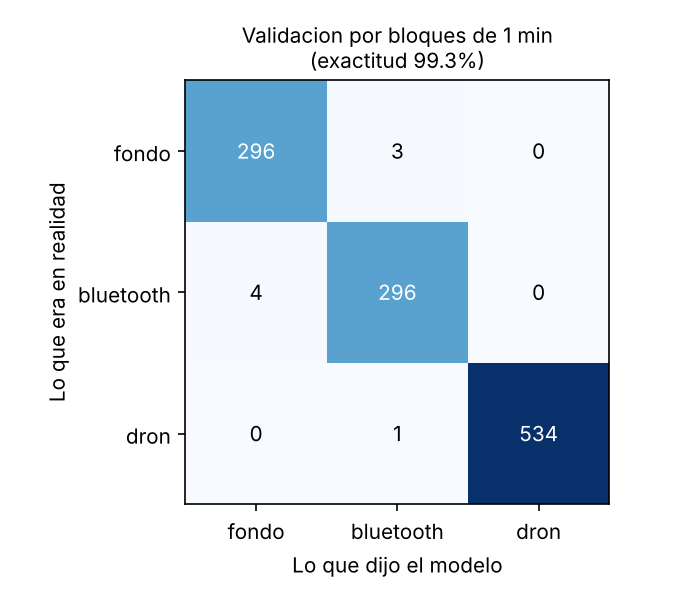
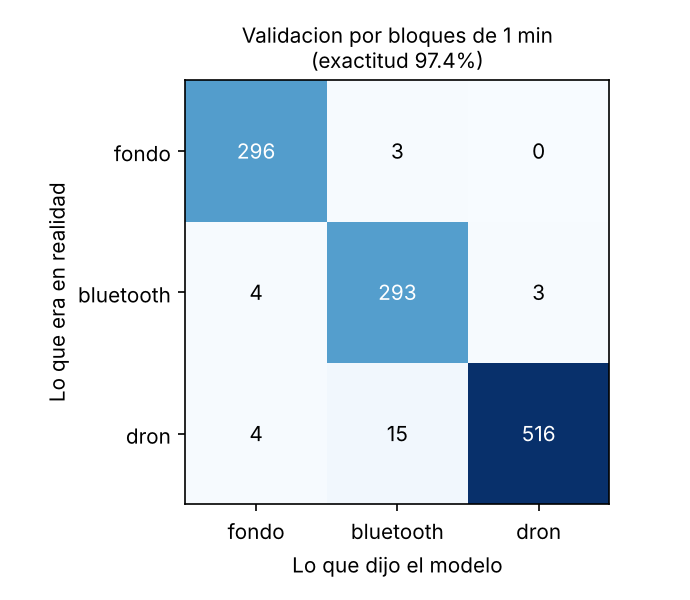
Modelo solo con el espectro: sin falsas alarmas de noche
Con los rasgos del trafico WiFi el modelo aprendio 'poco trafico = dron' y de noche alertaba.
Sin ellos: 97,4 % por bloques de 1 min, 0 falsas alarmas con la regla de 2 ventanas y 0 % con
trafico de noche simulado. El firmware no cambia: elige los rasgos por nombre.

diff --git a/Lab_ESP32/firmware/nodo_detector/modelo_detector.h b/Lab_ESP32/firmware/nodo_detector/modelo_detector.h
@@ -1,58 +1,49 @@
 // Modelo del detector de drones (regresion logistica, 3 clases).
-// Generado por proyecto-detector-drones/ml/entrenar.py el 2026-11-10. No editar a mano.
-// Exactitud: 99.3% (bloques de 1 min) y 100.0% (ultimo 30 % de cada grabacion).
+// Generado por proyecto-detector-drones/ml/entrenar.py el 2026-11-12. No editar a mano.
+// Exactitud: 97.4% (bloques de 1 min) y 99.1% (ultimo 30 % de cada grabacion).
 //
 // Uso: llena x[] con los rasgos de una ventana de 2 s EN ESTE ORDEN y llama
 //      int clase = detectorClasificar(x, prob);   // 0=fondo 1=bluetooth 2=dron
 #pragma once
 #include <math.h>
 
-#define DETECTOR_N_RASGOS 28
+#define DETECTOR_N_RASGOS 19
 #define DETECTOR_N_CLASES 3
 
 static const char* const DETECTOR_CLASES[DETECTOR_N_CLASES] = {"fondo", "bluetooth", "dron"};
 
 // Orden de los rasgos:
-//    0 tramas
-//    1 aparatos
-//    2 mgmt
-//    3 datos
-//    4 tam_prom
-//    5 rssi_prom
-//    6 rssi_max
-//    7 tramas_debiles
-//    8 aparatos_fuertes
-//    9 banda_2400
-//   10 banda_2406
-//   11 banda_2412
-//   12 banda_2418
-//   13 banda_2424
-//   14 banda_2430
-//   15 banda_2436
-//   16 banda_2442
-//   17 banda_2448
-//   18 banda_2454
-//   19 banda_2460
-//   20 banda_2466
-//   21 banda_2472
-//   22 banda_2478
-//   23 esp_media
-//   24 esp_banda_dron
-//   25 esp_max_banda_dron
-//   26 esp_canales_activos
-//   27 esp_variacion
+//    0 banda_2400
+//    1 banda_2406
+//    2 banda_2412
+//    3 banda_2418
+//    4 banda_2424
+//    5 banda_2430
+//    6 banda_2436
+//    7 banda_2442
+//    8 banda_2448
+//    9 banda_2454
+//   10 banda_2460
+//   11 banda_2466
+//   12 banda_2472
+//   13 banda_2478
+//   14 esp_media
+//   15 esp_banda_dron
+//   16 esp_max_banda_dron
+//   17 esp_canales_activos
+//   18 esp_variacion
 static const char* const DETECTOR_RASGOS[DETECTOR_N_RASGOS] = {
-  "tramas", "aparatos", "mgmt", "datos", "tam_prom", "rssi_prom", "rssi_max", "tramas_debiles", "aparatos_fuertes", "banda_2400", "banda_2406", "banda_2412", "banda_2418", "banda_2424", "banda_2430", "banda_2436", "banda_2442", "banda_2448", "banda_2454", "banda_2460", "banda_2466", "banda_2472", "banda_2478", "esp_media", "esp_banda_dron", "esp_max_banda_dron", "esp_canales_activos", "esp_variacion"
+  "banda_2400", "banda_2406", "banda_2412", "banda_2418", "banda_2424", "banda_2430", "banda_2436", "banda_2442", "banda_2448", "banda_2454", "banda_2460", "banda_2466", "banda_2472", "banda_2478", "esp_media", "esp_banda_dron", "esp_max_banda_dron", "esp_canales_activos", "esp_variacion"
 };
 
-static const float DETECTOR_MEDIA[DETECTOR_N_RASGOS] = {65.55291f, 34.51235f, 56.23986f, 9.313051f, 296.5265f, -67.5776f, -47.86596f, 23.39859f, 4.449735f, 0.1979899f, 0.1928727f, 0.8205556f, 1.012924f, 0.6436255f, 0.7967448f, 0.8469546f, 1.047824f, 0.7648287f, 0.5646022f, 0.552721f, 0.07989436f, 0.1091698f, 0.1110898f, 0.3686591f, 0.7937235f, 3.651675f, 0.1781504f, 0.07304753f};
-static const float DETECTOR_ESCALA[DETECTOR_N_RASGOS] = {29.88503f, 13.584f, 26.66317f, 8.638531f, 34.16586f, 3.721413f, 3.787758f, 15.39457f, 1.342112f, 0.1480145f, 0.2175033f, 0.928384f, 0.7940429f, 0.594416f, 1.018404f, 1.05425f, 1.183074f, 1.143063f, 1.025174f, 0.9963565f, 0.1994755f, 0.1413865f, 0.09339758f, 0.3109011f, 0.8684976f, 1.616551f, 0.1212147f, 0.0437652f};
+static const float DETECTOR_MEDIA[DETECTOR_N_RASGOS] = {0.1979899f, 0.1928727f, 0.8205556f, 1.012924f, 0.6436255f, 0.7967448f, 0.8469546f, 1.047824f, 0.7648287f, 0.5646022f, 0.552721f, 0.07989436f, 0.1091698f, 0.1110898f, 0.3686591f, 0.7937235f, 3.651675f, 0.1781504f, 0.07304753f};
+static const float DETECTOR_ESCALA[DETECTOR_N_RASGOS] = {0.1480145f, 0.2175033f, 0.928384f, 0.7940429f, 0.594416f, 1.018404f, 1.05425f, 1.183074f, 1.143063f, 1.025174f, 0.9963565f, 0.1994755f, 0.1413865f, 0.09339758f, 0.3109011f, 0.8684976f, 1.616551f, 0.1212147f, 0.0437652f};
 static const float DETECTOR_PESOS[DETECTOR_N_CLASES][DETECTOR_N_RASGOS] = {
-  {0.8742491f, 0.5118238f, 1.000768f, -0.06444263f, 0.3840119f, -0.7526828f, 0.2613238f, 0.7821502f, 0.1202065f, -1.51988f, -1.872247f, 0.1288443f, 0.1088237f, 0.07151049f, -0.7619423f, -0.4073706f, -0.1993994f, 0.1625881f, 0.02624369f, 0.1908636f, -0.9370545f, -1.326479f, -0.5749433f, -0.2833349f, -0.2300079f, -0.5795302f, -0.5051515f, -0.06702661f},  // fondo
-  {0.1112353f, 0.7877509f, 0.1104013f, 0.04406088f, -0.01260994f, -0.1686209f, -0.08153487f, -0.04781867f, -0.3000188f, 0.9242091f, 1.036108f, -0.1748325f, 0.1118467f, -0.08120711f, 0.1253554f, -0.3985436f, -0.3311005f, -0.4290557f, -0.327154f, -0.3708066f, 0.6238447f, 1.349421f, 0.7469365f, -0.1921041f, -0.2916233f, 0.2312508f, -0.3632749f, 0.2813756f},  // bluetooth
-  {-0.9854844f, -1.299575f, -1.111169f, 0.02038175f, -0.3714019f, 0.9213037f, -0.179789f, -0.7343315f, 0.1798123f, 0.5956713f, 0.8361389f, 0.0459882f, -0.2206704f, 0.009696614f, 0.6365868f, 0.8059142f, 0.5304999f, 0.2664676f, 0.3009104f, 0.1799431f, 0.3132098f, -0.02294175f, -0.1719932f, 0.475439f, 0.5216311f, 0.3482794f, 0.8684264f, -0.214349f},  // dron
+  {-1.583395f, -2.076554f, 0.127675f, 0.07538404f, 0.3921808f, -1.186709f, -0.9570474f, -0.1253967f, -0.2839796f, -0.4629335f, 0.1461288f, -1.129593f, -1.249278f, -0.5860126f, -0.5744656f, -0.5319683f, -0.935729f, -0.818536f, 0.2992547f},  // fondo
+  {0.9064051f, 1.021587f, -0.1061034f, 0.04852619f, -0.1289521f, 0.4903554f, -1.059524f, -0.07090267f, -0.4454478f, -1.394121f, -0.6848593f, 0.3850261f, 1.338807f, 0.9153497f, -0.4215276f, -0.4518396f, 0.1663069f, -0.7152795f, 0.4405562f},  // bluetooth
+  {0.67699f, 1.054967f, -0.02157159f, -0.1239102f, -0.2632287f, 0.6963536f, 2.016571f, 0.1962994f, 0.7294274f, 1.857054f, 0.5387305f, 0.7445673f, -0.08952905f, -0.3293371f, 0.9959933f, 0.9838079f, 0.7694222f, 1.533815f, -0.7398109f},  // dron
 };
-static const float DETECTOR_SESGO[DETECTOR_N_CLASES] = {-4.553478f, 0.7258105f, 3.827668f};
+static const float DETECTOR_SESGO[DETECTOR_N_CLASES] = {-4.582506f, -0.9616126f, 5.544118f};
 
 // Devuelve la clase mas probable; si prob no es NULL, deja ahi las 3 probabilidades.
 static inline int detectorClasificar(const float* x, float* prob) {

diff --git a/proyecto-detector-drones/modelos/modelo_detector.h b/proyecto-detector-drones/modelos/modelo_detector.h
@@ -1,58 +1,49 @@
 // Modelo del detector de drones (regresion logistica, 3 clases).
-// Generado por proyecto-detector-drones/ml/entrenar.py el 2026-11-10. No editar a mano.
-// Exactitud: 99.3% (bloques de 1 min) y 100.0% (ultimo 30 % de cada grabacion).
+// Generado por proyecto-detector-drones/ml/entrenar.py el 2026-11-12. No editar a mano.
+// Exactitud: 97.4% (bloques de 1 min) y 99.1% (ultimo 30 % de cada grabacion).
 //
 // Uso: llena x[] con los rasgos de una ventana de 2 s EN ESTE ORDEN y llama
 //      int clase = detectorClasificar(x, prob);   // 0=fondo 1=bluetooth 2=dron
 #pragma once
 #include <math.h>
 
-#define DETECTOR_N_RASGOS 28
+#define DETECTOR_N_RASGOS 19
 #define DETECTOR_N_CLASES 3
 
 static const char* const DETECTOR_CLASES[DETECTOR_N_CLASES] = {"fondo", "bluetooth", "dron"};
 
 // Orden de los rasgos:
-//    0 tramas
-//    1 aparatos
-//    2 mgmt
-//    3 datos
-//    4 tam_prom
-//    5 rssi_prom
-//    6 rssi_max
-//    7 tramas_debiles
-//    8 aparatos_fuertes
-//    9 banda_2400
-//   10 banda_2406
-//   11 banda_2412
-//   12 banda_2418
-//   13 banda_2424
-//   14 banda_2430
-//   15 banda_2436
-//   16 banda_2442
-//   17 banda_2448
-//   18 banda_2454
-//   19 banda_2460
-//   20 banda_2466
-//   21 banda_2472
-//   22 banda_2478
-//   23 esp_media
-//   24 esp_banda_dron
-//   25 esp_max_banda_dron
-//   26 esp_canales_activos
-//   27 esp_variacion
+//    0 banda_2400
+//    1 banda_2406
+//    2 banda_2412
+//    3 banda_2418
+//    4 banda_2424
+//    5 banda_2430
+//    6 banda_2436
+//    7 banda_2442
+//    8 banda_2448
+//    9 banda_2454
+//   10 banda_2460
+//   11 banda_2466
+//   12 banda_2472
+//   13 banda_2478
+//   14 esp_media
+//   15 esp_banda_dron
+//   16 esp_max_banda_dron
+//   17 esp_canales_activos
+//   18 esp_variacion
 static const char* const DETECTOR_RASGOS[DETECTOR_N_RASGOS] = {
-  "tramas", "aparatos", "mgmt", "datos", "tam_prom", "rssi_prom", "rssi_max", "tramas_debiles", "aparatos_fuertes", "banda_2400", "banda_2406", "banda_2412", "banda_2418", "banda_2424", "banda_2430", "banda_2436", "banda_2442", "banda_2448", "banda_2454", "banda_2460", "banda_2466", "banda_2472", "banda_2478", "esp_media", "esp_banda_dron", "esp_max_banda_dron", "esp_canales_activos", "esp_variacion"
+  "banda_2400", "banda_2406", "banda_2412", "banda_2418", "banda_2424", "banda_2430", "banda_2436", "banda_2442", "banda_2448", "banda_2454", "banda_2460", "banda_2466", "banda_2472", "banda_2478", "esp_media", "esp_banda_dron", "esp_max_banda_dron", "esp_canales_activos", "esp_variacion"
 };
 
-static const float DETECTOR_MEDIA[DETECTOR_N_RASGOS] = {65.55291f, 34.51235f, 56.23986f, 9.313051f, 296.5265f, -67.5776f, -47.86596f, 23.39859f, 4.449735f, 0.1979899f, 0.1928727f, 0.8205556f, 1.012924f, 0.6436255f, 0.7967448f, 0.8469546f, 1.047824f, 0.7648287f, 0.5646022f, 0.552721f, 0.07989436f, 0.1091698f, 0.1110898f, 0.3686591f, 0.7937235f, 3.651675f, 0.1781504f, 0.07304753f};
-static const float DETECTOR_ESCALA[DETECTOR_N_RASGOS] = {29.88503f, 13.584f, 26.66317f, 8.638531f, 34.16586f, 3.721413f, 3.787758f, 15.39457f, 1.342112f, 0.1480145f, 0.2175033f, 0.928384f, 0.7940429f, 0.594416f, 1.018404f, 1.05425f, 1.183074f, 1.143063f, 1.025174f, 0.9963565f, 0.1994755f, 0.1413865f, 0.09339758f, 0.3109011f, 0.8684976f, 1.616551f, 0.1212147f, 0.0437652f};
+static const float DETECTOR_MEDIA[DETECTOR_N_RASGOS] = {0.1979899f, 0.1928727f, 0.8205556f, 1.012924f, 0.6436255f, 0.7967448f, 0.8469546f, 1.047824f, 0.7648287f, 0.5646022f, 0.552721f, 0.07989436f, 0.1091698f, 0.1110898f, 0.3686591f, 0.7937235f, 3.651675f, 0.1781504f, 0.07304753f};
+static const float DETECTOR_ESCALA[DETECTOR_N_RASGOS] = {0.1480145f, 0.2175033f, 0.928384f, 0.7940429f, 0.594416f, 1.018404f, 1.05425f, 1.183074f, 1.143063f, 1.025174f, 0.9963565f, 0.1994755f, 0.1413865f, 0.09339758f, 0.3109011f, 0.8684976f, 1.616551f, 0.1212147f, 0.0437652f};
 static const float DETECTOR_PESOS[DETECTOR_N_CLASES][DETECTOR_N_RASGOS] = {
-  {0.8742491f, 0.5118238f, 1.000768f, -0.06444263f, 0.3840119f, -0.7526828f, 0.2613238f, 0.7821502f, 0.1202065f, -1.51988f, -1.872247f, 0.1288443f, 0.1088237f, 0.07151049f, -0.7619423f, -0.4073706f, -0.1993994f, 0.1625881f, 0.02624369f, 0.1908636f, -0.9370545f, -1.326479f, -0.5749433f, -0.2833349f, -0.2300079f, -0.5795302f, -0.5051515f, -0.06702661f},  // fondo
-  {0.1112353f, 0.7877509f, 0.1104013f, 0.04406088f, -0.01260994f, -0.1686209f, -0.08153487f, -0.04781867f, -0.3000188f, 0.9242091f, 1.036108f, -0.1748325f, 0.1118467f, -0.08120711f, 0.1253554f, -0.3985436f, -0.3311005f, -0.4290557f, -0.327154f, -0.3708066f, 0.6238447f, 1.349421f, 0.7469365f, -0.1921041f, -0.2916233f, 0.2312508f, -0.3632749f, 0.2813756f},  // bluetooth
-  {-0.9854844f, -1.299575f, -1.111169f, 0.02038175f, -0.3714019f, 0.9213037f, -0.179789f, -0.7343315f, 0.1798123f, 0.5956713f, 0.8361389f, 0.0459882f, -0.2206704f, 0.009696614f, 0.6365868f, 0.8059142f, 0.5304999f, 0.2664676f, 0.3009104f, 0.1799431f, 0.3132098f, -0.02294175f, -0.1719932f, 0.475439f, 0.5216311f, 0.3482794f, 0.8684264f, -0.214349f},  // dron
+  {-1.583395f, -2.076554f, 0.127675f, 0.07538404f, 0.3921808f, -1.186709f, -0.9570474f, -0.1253967f, -0.2839796f, -0.4629335f, 0.1461288f, -1.129593f, -1.249278f, -0.5860126f, -0.5744656f, -0.5319683f, -0.935729f, -0.818536f, 0.2992547f},  // fondo
+  {0.9064051f, 1.021587f, -0.1061034f, 0.04852619f, -0.1289521f, 0.4903554f, -1.059524f, -0.07090267f, -0.4454478f, -1.394121f, -0.6848593f, 0.3850261f, 1.338807f, 0.9153497f, -0.4215276f, -0.4518396f, 0.1663069f, -0.7152795f, 0.4405562f},  // bluetooth
+  {0.67699f, 1.054967f, -0.02157159f, -0.1239102f, -0.2632287f, 0.6963536f, 2.016571f, 0.1962994f, 0.7294274f, 1.857054f, 0.5387305f, 0.7445673f, -0.08952905f, -0.3293371f, 0.9959933f, 0.9838079f, 0.7694222f, 1.533815f, -0.7398109f},  // dron
 };
-static const float DETECTOR_SESGO[DETECTOR_N_CLASES] = {-4.553478f, 0.7258105f, 3.827668f};
+static const float DETECTOR_SESGO[DETECTOR_N_CLASES] = {-4.582506f, -0.9616126f, 5.544118f};
 
 // Devuelve la clase mas probable; si prob no es NULL, deja ahi las 3 probabilidades.
 static inline int detectorClasificar(const float* x, float* prob) {

diff --git a/proyecto-detector-drones/ml/entrenar.py b/proyecto-detector-drones/ml/entrenar.py
@@ -38,6 +38,9 @@ CARPETA_MODELOS = os.path.join(AQUI, "..", "modelos")
 CARPETA_RESULTADOS = os.path.join(AQUI, "..", "resultados")
 CARPETA_FIRMWARE = os.path.join(AQUI, "..", "..", "Lab_ESP32", "firmware", "nodo_detector")
 CLASES = ["fondo", "bluetooth", "dron"]
+# Con los rasgos del trafico WiFi el modelo aprendio "poco trafico = dron" y de noche, con la
+# casa quieta, daba falsas alarmas. Desde el 2026-11-12 se entrena solo con el espectro del nRF24.
+USAR_RASGOS_WIFI = False
 BLOQUES = 10                 # pliegues de la validacion por bloques de 1 minuto
 FRACCION_ENTRENO = 0.7
 SEPARACION_S = 10
@@ -157,6 +160,8 @@ def main():
     d = pd.read_csv(ENTRADA)
     d = d[d.clase.isin(CLASES)].reset_index(drop=True)
     rasgos = [r for r in R.RASGOS if d[r].std() > 0]   # fuera los que siempre valen lo mismo
+    if not USAR_RASGOS_WIFI:
+        rasgos = [r for r in rasgos if r not in R.RASGOS_WIFI]
     X, y = d[rasgos].values, d.clase.values
     t, ses = d.t.values, d.sesion.values
     grupos = (d.sesion + "_" + d.minuto.astype(str)).values
@@ -244,8 +249,9 @@ def main():
         "## Limites (van en el informe)",
         "",
         "- Todo se grabo el mismo dia, en el mismo sitio y a 1 m. No se sabe aun como responde a 3, 5 o 10 m, ni en otro lugar.",
-        "- Cada clase es una sola grabacion seguida: el modelo pudo aprender algo propio de esa hora (por ejemplo, cuanto trafico WiFi habia).",
-        "  El espectro solo, que no depende del trafico de la casa, llega a ~97 %, asi que la deteccion se apoya sobre todo en la banda del dron.",
+        "- Cada clase es una sola grabacion seguida: el modelo pudo aprender algo propio de esa hora.",
+        "  Paso con el trafico WiFi: con esos rasgos el modelo decia \"poco trafico = dron\" y de noche daba falsas alarmas.",
+        "  Por eso este modelo usa solo el espectro del nRF24 (USAR_RASGOS_WIFI = False en entrenar.py).",
         "- Solo detecta el Neo 2 con su control en 2,4 GHz; en 5,8 GHz o solo con el celular no se ve.",
         "",
     ]

diff --git a/Lab_ESP32/firmware/nodo_detector/prueba_pc/comparar.py b/Lab_ESP32/firmware/nodo_detector/prueba_pc/comparar.py
@@ -18,6 +18,8 @@ import rasgos as R    # noqa: E402
 
 d = pd.read_csv(E.ENTRADA)
 rasgos = [r for r in R.RASGOS if d[r].std() > 0]
+if not E.USAR_RASGOS_WIFI:
+    rasgos = [r for r in rasgos if r not in R.RASGOS_WIFI]
 c = pd.read_csv(sys.argv[1], header=None, names=["sesion", "t"] + rasgos + ["p0", "p1", "p2", "clase_c"])
 m = d.merge(c, on=["sesion", "t"], suffixes=("", "_c"))
 modelo = E.nuevo_modelo().fit(d[rasgos].values, d.clase.values)

diff --git a/proyecto-detector-drones/modelos/ficha_modelo.md b/proyecto-detector-drones/modelos/ficha_modelo.md
@@ -1,10 +1,10 @@
 # Ficha del modelo: detector de drones
 
-Generada por `ml/entrenar.py` el 2026-11-10.
+Generada por `ml/entrenar.py` el 2026-11-12.
 
 - **Modelo:** regresion logistica con normalizacion, 3 clases (fondo, bluetooth, dron).
-- **Rasgos:** 28 por ventana de 2 s (9 del WiFi y 19 del espectro nRF24).
-- **Tamano:** 143 numeros (~572 bytes en float32).
+- **Rasgos:** 19 por ventana de 2 s (0 del WiFi y 19 del espectro nRF24).
+- **Tamano:** 98 numeros (~392 bytes en float32).
 - **Datos:** 1134 ventanas, una grabacion larga por clase, en el estudio, a 1 m, el 20261110.
 
 | Grabacion | Estado | Ventanas |
@@ -18,32 +18,33 @@ Generada por `ml/entrenar.py` el 2026-11-10.
 
 | Prueba | Exactitud | F1 promedio | Falsas alarmas de dron (sueltas) | Con regla de 2 ventanas seguidas |
 | --- | --- | --- | --- | --- |
-| Bloques de 1 min (10 pliegues) | 99.3% | 0.991 | 0 en 0.33 h sin dron | 0 |
-| Ultimo 30 % de cada grabacion | 100.0% | 1.000 | 0 en 0.10 h sin dron | 0 |
+| Bloques de 1 min (10 pliegues) | 97.4% | 0.973 | 3 en 0.33 h sin dron | 0 |
+| Ultimo 30 % de cada grabacion | 99.1% | 0.991 | 0 en 0.10 h sin dron | 0 |
 
 Matriz de confusion (bloques de 1 min; filas = realidad, columnas = modelo):
 
 | | fondo | bluetooth | dron |
 | --- | --- | --- | --- |
 | **fondo** | 296 | 3 | 0 |
-| **bluetooth** | 4 | 296 | 0 |
-| **dron** | 0 | 1 | 534 |
+| **bluetooth** | 4 | 293 | 3 |
+| **dron** | 4 | 15 | 516 |
 
 ```
               precision    recall  f1-score   support
 
-       fondo      0.987     0.990     0.988       299
-   bluetooth      0.987     0.987     0.987       300
-        dron      1.000     0.998     0.999       535
+       fondo      0.974     0.990     0.982       299
+   bluetooth      0.942     0.977     0.959       300
+        dron      0.994     0.964     0.979       535
 
-    accuracy                          0.993      1134
-   macro avg      0.991     0.992     0.991      1134
-weighted avg      0.993     0.993     0.993      1134
+    accuracy                          0.974      1134
+   macro avg      0.970     0.977     0.973      1134
+weighted avg      0.975     0.974     0.975      1134
 ```
 
 ## Limites (van en el informe)
 
 - Todo se grabo el mismo dia, en el mismo sitio y a 1 m. No se sabe aun como responde a 3, 5 o 10 m, ni en otro lugar.
-- Cada clase es una sola grabacion seguida: el modelo pudo aprender algo propio de esa hora (por ejemplo, cuanto trafico WiFi habia).
-  El espectro solo, que no depende del trafico de la casa, llega a ~97 %, asi que la deteccion se apoya sobre todo en la banda del dron.
+- Cada clase es una sola grabacion seguida: el modelo pudo aprender algo propio de esa hora.
+  Paso con el trafico WiFi: con esos rasgos el modelo decia "poco trafico = dron" y de noche daba falsas alarmas.
+  Por eso este modelo usa solo el espectro del nRF24 (USAR_RASGOS_WIFI = False en entrenar.py).
 - Solo detecta el Neo 2 con su control en 2,4 GHz; en 5,8 GHz o solo con el celular no se ve.

diff --git a/proyecto-detector-drones/decisiones.md b/proyecto-detector-drones/decisiones.md
@@ -4,6 +4,7 @@ Una entrada por decisión, la más reciente arriba. Formato: fecha, decisión, m
 
 ## Decididas
 
+- **2026-11-12 — Modelo solo con el espectro (19 rasgos).** De noche había falsas alarmas. Causa: con los rasgos del tráfico WiFi el modelo aprendió "poco tráfico = dron" (con el dron se vieron 37 tramas por ventana contra 95 en el fondo; los pesos más fuertes hacia dron eran pocas tramas de gestión, pocas tramas y pocos aparatos). Simulando el fondo con 70 % menos tráfico, el 98,7 % de las ventanas salía como dron. Se entrena sin esos rasgos (`USAR_RASGOS_WIFI = False`): 97,4 % por bloques de 1 min y 99,1 % en el último 30 %, 3 ventanas sueltas de falsa alarma y 0 con la regla de 2 seguidas; con el tráfico simulado de noche, 0 %. El firmware no cambia: elige los rasgos por nombre. Siguiente: app para grabar datos de noche y reentrenar desde el celular.
 - **2026-11-10 — Sistema completo sin pantalla.** La pantalla TFT probada se quedó en blanco (pines, velocidad, 5 V y cuatro arranques distintos), así que queda apagada (`USAR_PANTALLA 0`). Se usa el ISD1820 con un sonido grabado (P-E en GPIO 16) y el S3 vuelve a mandar al devkit por el GPIO 17: cada ventana (`V`), la decisión del modelo (`D`) y las alertas (`E`). `devkit_aws` publica `clase` y `prob_dron` en AWS IoT y usa la alerta del modelo en vez del umbral de 2,5; el dashboard y el CSV de la Práctica 3 muestran la clasificación. Compila todo (S3 67 %, devkit 77 %). Riesgo: el WiFi del devkit cerca del nodo no estaba en los datos de entrenamiento; ponerlo a ~1 m y medir falsas alarmas.
 - **2026-11-10 — Pantalla táctica y voz de alerta en `nodo_detector`.** TFT 1,8" ST7735 en un bus SPI propio (HSPI: SCK 4, MOSI 5, DC 6, RST 7, CS 15) para no competir con el nRF24, que barre el bus FSPI sin parar; ISD1820 con P-E en GPIO 16 (un pulso reproduce el mensaje grabado a mano). La pantalla muestra chequeo de arranque, cascada en vivo con la banda del dron, probabilidad de dron y estado; la alerta parpadea en rojo y repite la voz cada 12 s. Todo queda tras `USAR_PANTALLA_Y_VOZ` para que la detección no dependa de estas piezas. Compila con y sin pantalla (69 % y 66 % de flash). Pines propuestos, falta confirmarlos con el montaje.
 - **2026-11-10 — Primera prueba en la placa: funciona.** El detector alertó apenas se encendió el control en 2,4 GHz, con el dron en tierra y en vuelo. Dentro de la casa alertó a 5 m con el dron en tierra (motores apagados) y a 8 m volando. Tabla en `resultados/deteccion_distancia_dron.xlsx`.
